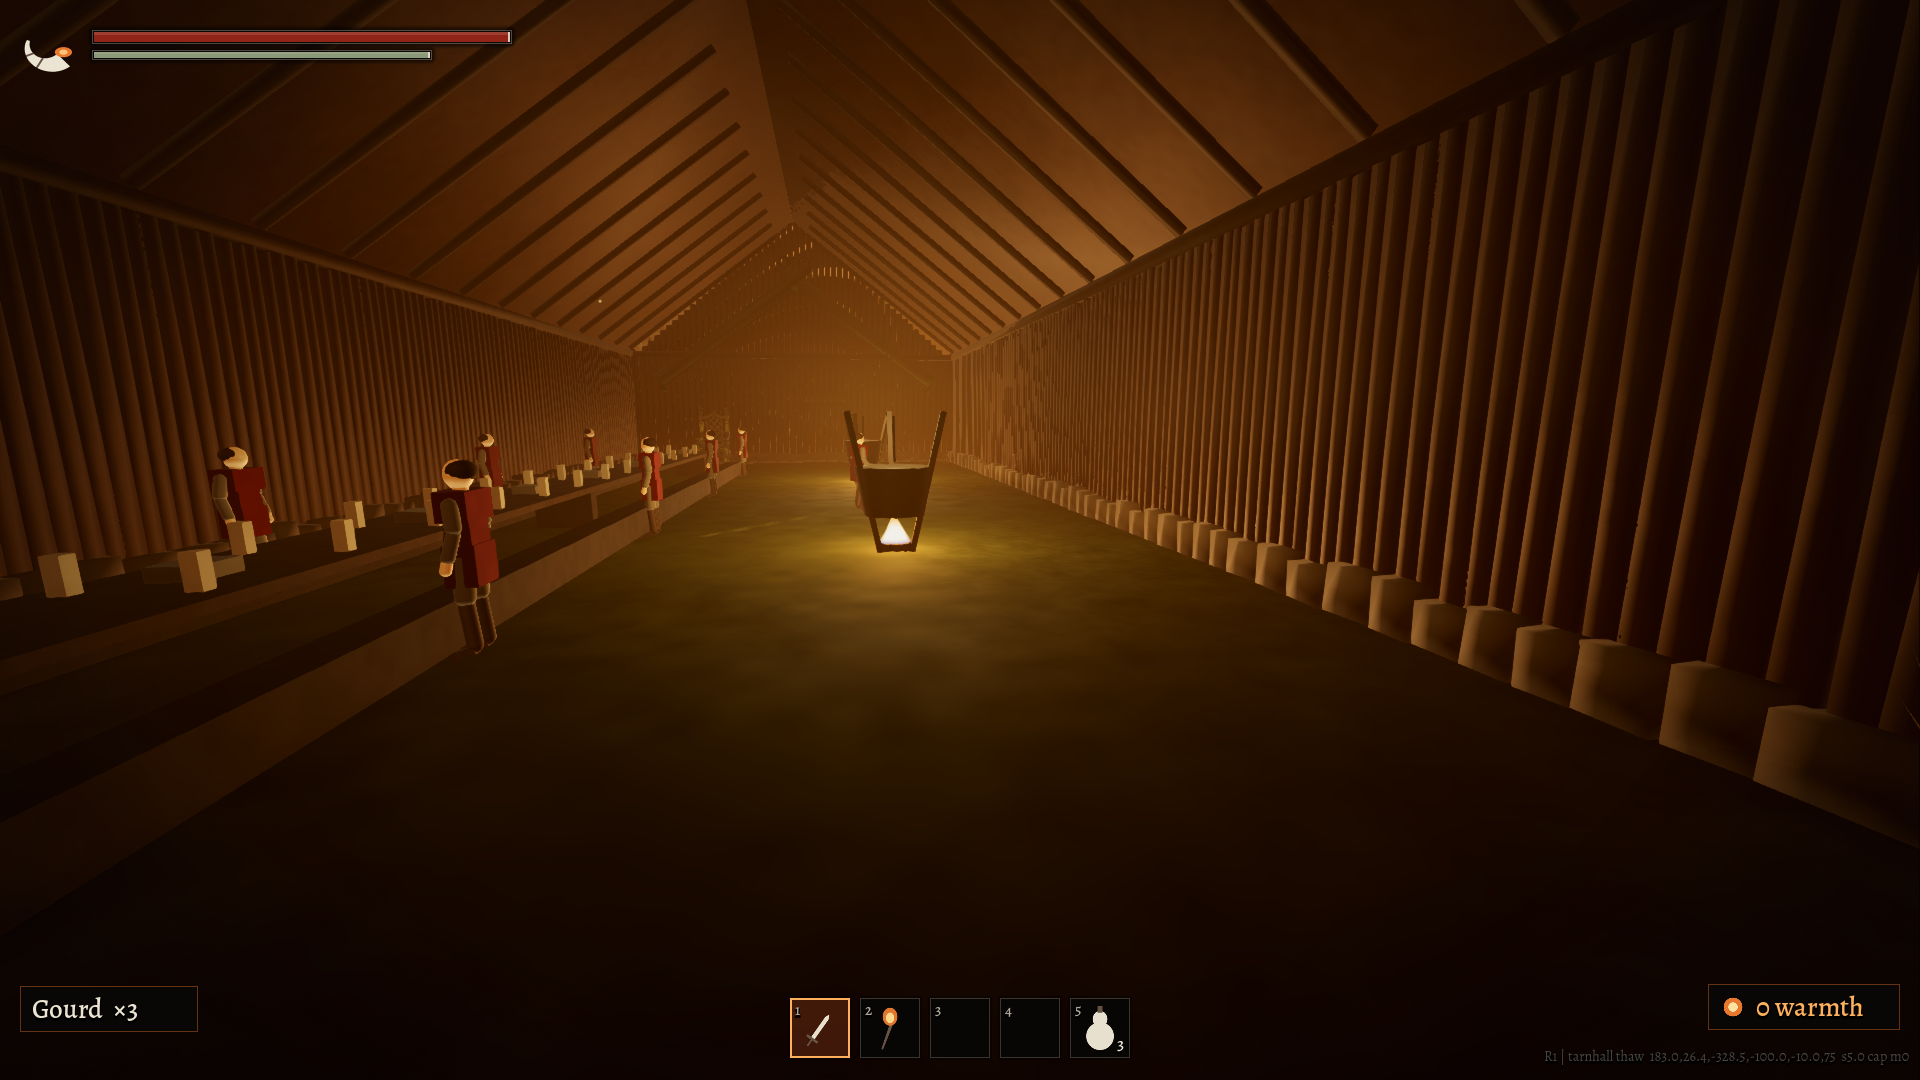
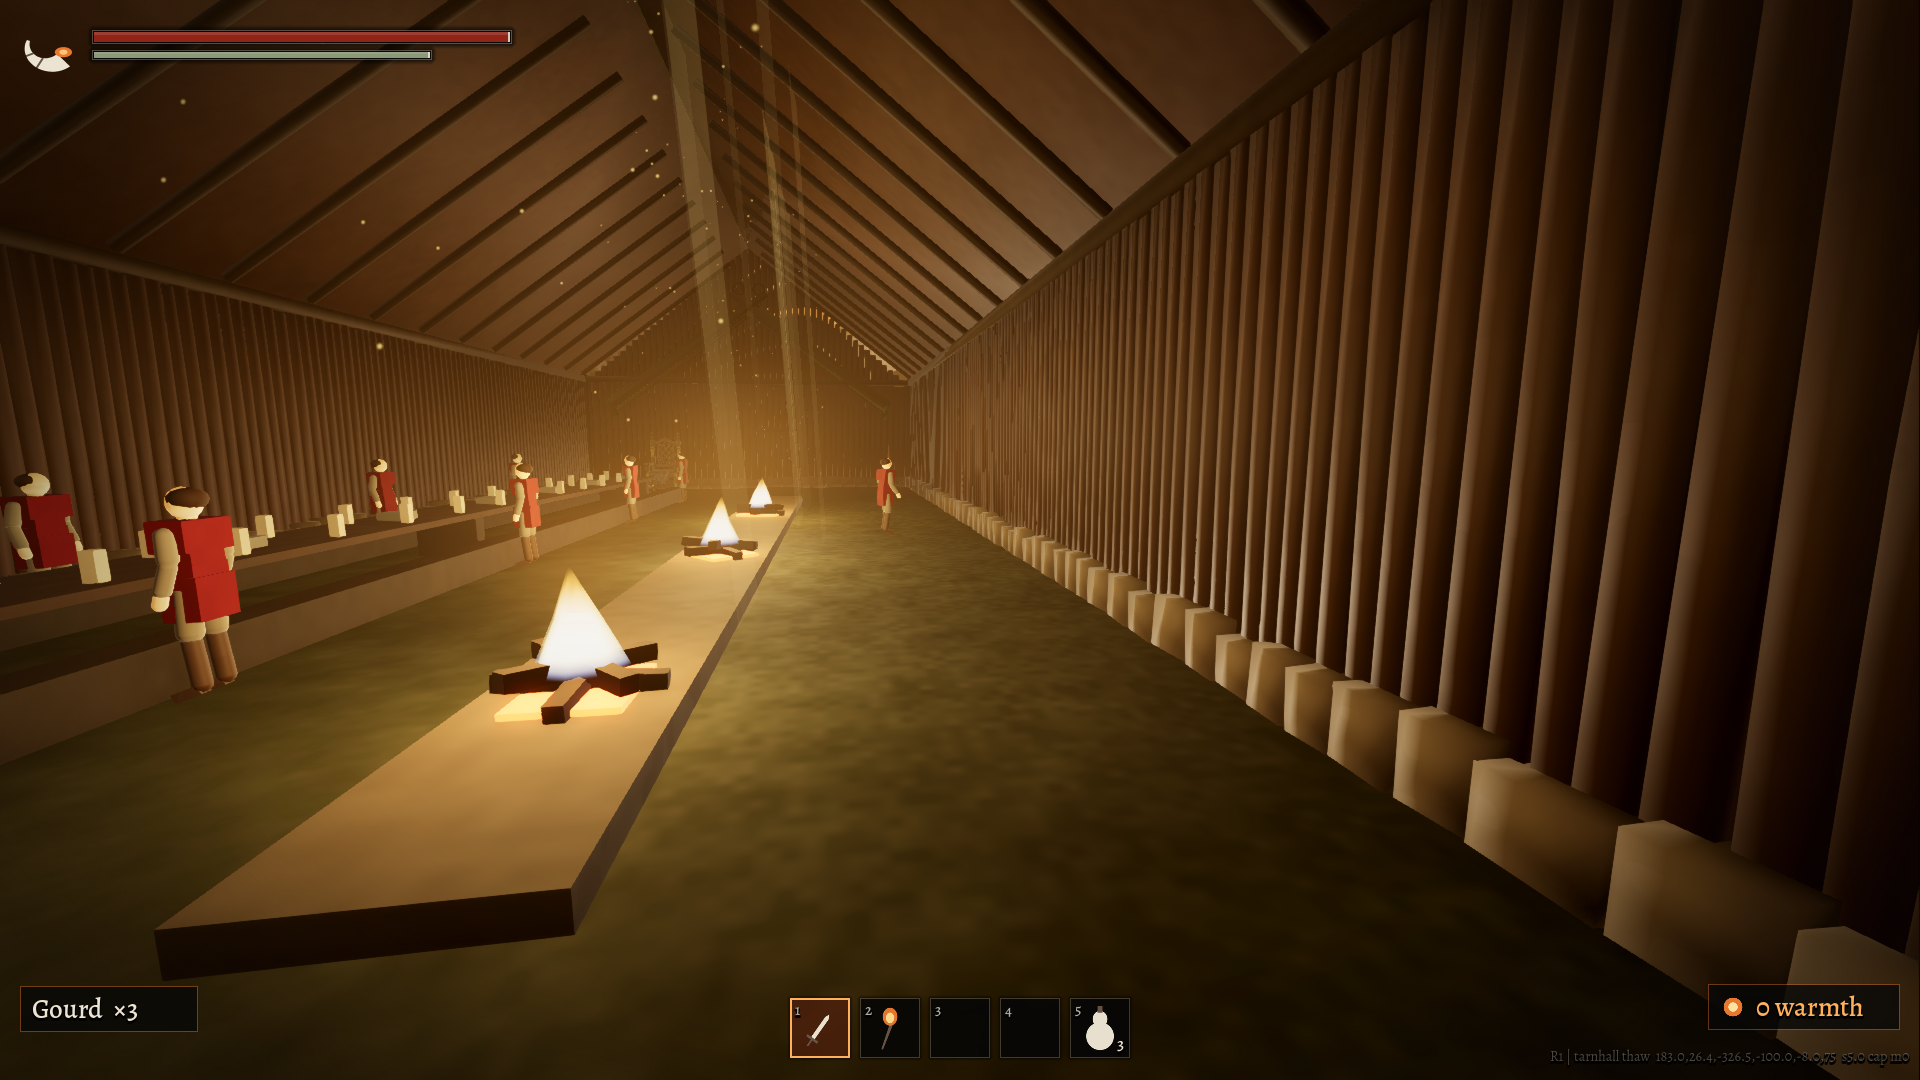
Tarnhall: a lit hall with a long hearth, gorge walls like Kettle's, no yellow wash
- long hearth down the hall floor: fires in THAW (glow lights, light shafts down through
  the smoke-holes), cold logs in RIME; hearth_fire / hearth_logs kits
- THAW light: clearer sun and neutral ambient instead of a dusk-orange wash
- the Tarn Steps' walls get buttresses, gullies and scree fans; the turf palette is
  greyed so the lit wall feet no longer glow yellow-green

Claude-Session: https://claude.ai/code/session_01F3vrUNPtFufos1qRX6SLeD

diff --git a/tools/gen_tarnhall.py b/tools/gen_tarnhall.py
@@ -25,6 +25,7 @@ import terrain_tarnhall as K  # noqa: E402
 import terrain_lowe as L  # noqa: E402
 import tarn_land as T  # noqa: E402
 from seams_tarnhall import seam  # noqa: E402
+from seams_thornwold import seam as wood_seam  # noqa: E402
 
 ROOT = os.path.dirname(os.path.dirname(os.path.abspath(__file__)))
 if __name__ == "__main__" and "--keep-terrain" not in sys.argv:
@@ -134,9 +135,17 @@ for i in range(8):
         elif i % 3 != 1:
             LANDMARKS.append({"scene": "res://assets/models/enemies/feast_guest.glb", "at": [r2(gx), FY, r2(gz)],
                               "rot": 180 if side > 0 else 0, "tag": "rime"})
-# the hall's light: the fire along the middle of the floor (THAW), dead in RIME
-PROPS.append({"kit": "fish_kettle", "at": [r2(HALL_C[0] - 4), FY, r2(HALL_C[1] + 2.4)], "rot": 0, "tag": "thaw", "glow": [2.0, 2.4, 14.0]})
-PROPS.append({"kit": "fish_kettle", "at": [r2(HALL_C[0] + 8), FY, r2(HALL_C[1] + 2.4)], "rot": 40, "tag": "thaw", "glow": [2.0, 2.0, 12.0]})
+# the long hearth down the middle of the floor: fires burning along it in
+# THAW (light through the smoke-holes above), cold ash in RIME
+HEARTH_Z = HALL_C[1] + 1.6
+BOXES.append({"min": [HALL_X0 + 6.0, FY, r2(HEARTH_Z - 0.75)], "max": [HALL_X1 - 8.0, FY + 0.22, r2(HEARTH_Z + 0.75)],
+              "mat": "M_drystone", "tag": "base"})
+SMOKE_HOLES = []
+for i, hx in enumerate((HALL_X0 + 8.5, HALL_X0 + 15.0, HALL_X0 + 21.5)):
+    PROPS.append({"kit": "hearth_fire", "at": [r2(hx), FY + 0.22, r2(HEARTH_Z)], "rot": i * 37, "tag": "thaw", "collide": False,
+                  "glow": [1.4, 3.2, 16.0], "embed": True})
+    PROPS.append({"kit": "hearth_logs", "at": [r2(hx), FY + 0.22, r2(HEARTH_Z)], "rot": i * 37, "tag": "rime", "collide": False, "embed": True})
+    SMOKE_HOLES.append([r2(hx), FY + 2.6, r2(HEARTH_Z)])
 
 # --- the byres --------------------------------------------------------------
 for i in range(3):
@@ -270,7 +279,7 @@ pickups = [
      "label": "Pry up what the byre floor holds"},
     {"id": "tarn_horn", "at": [r2(HALL_X0 - 4.6), PORCH_Y, r2(HALL_C[1] + 5.8)], "warmth": 45, "tag": "base", "label": "Take the guest's horn"},
 ]
-npcs = [{"id": "lusse", "at": [r2(HALL_C[0] + 1.0), FY, r2(HALL_C[1] + 2.0)], "rot": 200, "tag": "thaw"}]
+npcs = [{"id": "lusse", "at": [r2(HALL_C[0] + 1.0), FY, r2(HALL_C[1] + 4.6)], "rot": 200, "tag": "thaw"}]
 
 portal = seam("tarnhall")
 arrive = seam("kettle_fjord")       # Kettle's side of the seam sets you down here
@@ -300,15 +309,20 @@ D = {
     "id": "tarnhall",
     "name": "Tarnhall",
     "start": {"pos": START, "yaw": arrive["spawn_yaw"]},
-    "env": {"thaw": {"sun_rot": [-16, -110], "sun_energy": 2.6, "fog_density": 0.001, "vol_density": 0.005,
-                     "ambient_energy": 0.58, "exposure": 1.04,
-                     "fill_color": [1.0, 0.74, 0.48], "fill_energy": 0.5, "fill_rot": [24, 70]},
+    # THAW: clear evening light (not a dusk-orange wash), a soft bounce
+    "env": {"thaw": {"sun_rot": [-20, -110], "sun_energy": 2.6, "sun_color": [1.0, 0.9, 0.74], "fog_density": 0.001, "vol_density": 0.004,
+                     "ambient": [0.36, 0.35, 0.34], "ambient_energy": 0.78, "exposure": 1.12, "saturation": 0.98,
+                     "fill_color": [0.92, 0.84, 0.72], "fill_energy": 0.45, "fill_rot": [24, 70]},
             "rime": {"sun_rot": [-26, -70], "fog_density": 0.006, "vol_density": 0.016}},
     "terrain": K.terrain_block(),
     "nav_bounds": [24, -16, -400, 280, 90, -256],
     "weather": {"gulls": False, "spindrift": 10},
     "water": water,
     "falls": FALLS,
+    # light coming down through the smoke-holes onto the hearth (THAW)
+    "scripted": [{"script": "res://src/world/god_rays.gd", "at": sh, "tag": "thaw",
+                  "params": {"count": 3, "span_x": 2.5, "span_z": 1.6, "sun": [-78, -100], "seed_v": k3}}
+                 for k3, sh in enumerate(SMOKE_HOLES)],
     "hazards": hazards,
     "zones": [
         {"name": "THE TARN CAUSEWAY", "min": [24, -400], "max": [HALL_X0 - 0.5, -256]},
@@ -328,7 +342,7 @@ D = {
     "plaques": [{"at": at(127.0, -337.5, 0.0), "rot": 230,
                  "text": "TARNHALL\n\nSeven neighbourhoods came up the water every Long Light to feast here."}],
     "pickups": pickups,
-    "portals": [portal],
+    "portals": [portal, wood_seam("tarnhall")],
     "scatter": {
         "seed": 9090,
         "clear": [[HALL_C[0], HALL_C[1], 24.0], [BYRE_C[0], BYRE_C[1], 9.0], [124.0, -331.0, 4.0]],

diff --git a/tools/tarn_land.py b/tools/tarn_land.py
@@ -13,7 +13,7 @@ hall's east end.
 import math
 
 import terrain_saltfell as S
-from terrain_saltfell import fbm, smooth, _lerp
+from terrain_saltfell import fbm, smooth, _lerp, vnoise
 
 # the Tarn Steps: (x, z, road height). From the Kettle shelf to the tarn shore.
 STEPS = [(29.0, -295.5, 1.9), (43.0, -299.5, 3.4), (58.0, -305.5, 7.0), (73.0, -313.5, 11.6),
@@ -94,7 +94,15 @@ def tarn_land(x, z, h):
         wall_from = STREAM_OFF + 1.8
     else:
         wall_from = ROAD_HALF + 0.6
-    g += _rise((rd - wall_from) * 2.4, x, z, 142)
+    # the gorge walls as Kettle's: buttresses, gullies cut back between them,
+    # scree fanned at each gully's foot
+    r = 1.0 - abs(2.0 * vnoise(x * 0.06 + (13.0 if side > 0 else 0.0), 0.7, 150) - 1.0)
+    recess = 3.5 * (1.0 - r) ** 2
+    wd = rd - wall_from
+    g += _rise((wd - recess) * 2.4 * (0.65 + 0.75 * r), x, z, 142)
+    if wd > 0.0:
+        g += (1.0 - r) ** 2 * max(0.0, 1.0 - max(0.0, wd - recess) / 4.0) * (1.3 + 0.6 * fbm(x * 0.3, z * 0.3, 1, 151)) \
+            * smooth(0.0, 1.2, wd)
     gorge = min(fell, g)
     # the tarn basin: shore flats, the water, the island, the causeway
     e = tarn_e(x, z)

diff --git a/tools/terrain_tarnhall.py b/tools/terrain_tarnhall.py
@@ -28,7 +28,7 @@ def height(x, z):
 
 def path_weight(x, z):
     rd, _, _ = T.road(x, z)
-    best = 1.0 - smooth(1.2, 3.0, rd) if x < 133 else 0.0
+    best = 1.0 - smooth(2.4, 3.6, rd) if x < 133 else 0.0
     cd, _ = T.causeway_d(x, z)
     if T.tarn_e(x, z) < 1.0:
         best = max(best, 1.0 - smooth(1.5, 2.8, cd))
@@ -107,7 +107,7 @@ def terrain_block():
         "far_origin": [FAR_X0, FAR_Z0], "far_cell": FAR_CELL, "far_size": FAR_N,
         "chunk": 32, "generator": "tools/terrain_tarnhall.py", "seed": S.SEED,
         # high grazing round the tarn, grey fell rock
-        "palette": {"turf_a": [0.20, 0.25, 0.11], "turf_b": [0.30, 0.29, 0.14], "rock_col": [0.30, 0.30, 0.31]},
+        "palette": {"turf_a": [0.16, 0.17, 0.13], "turf_b": [0.21, 0.2, 0.16], "rock_col": [0.31, 0.31, 0.32]},
     }
 
 
